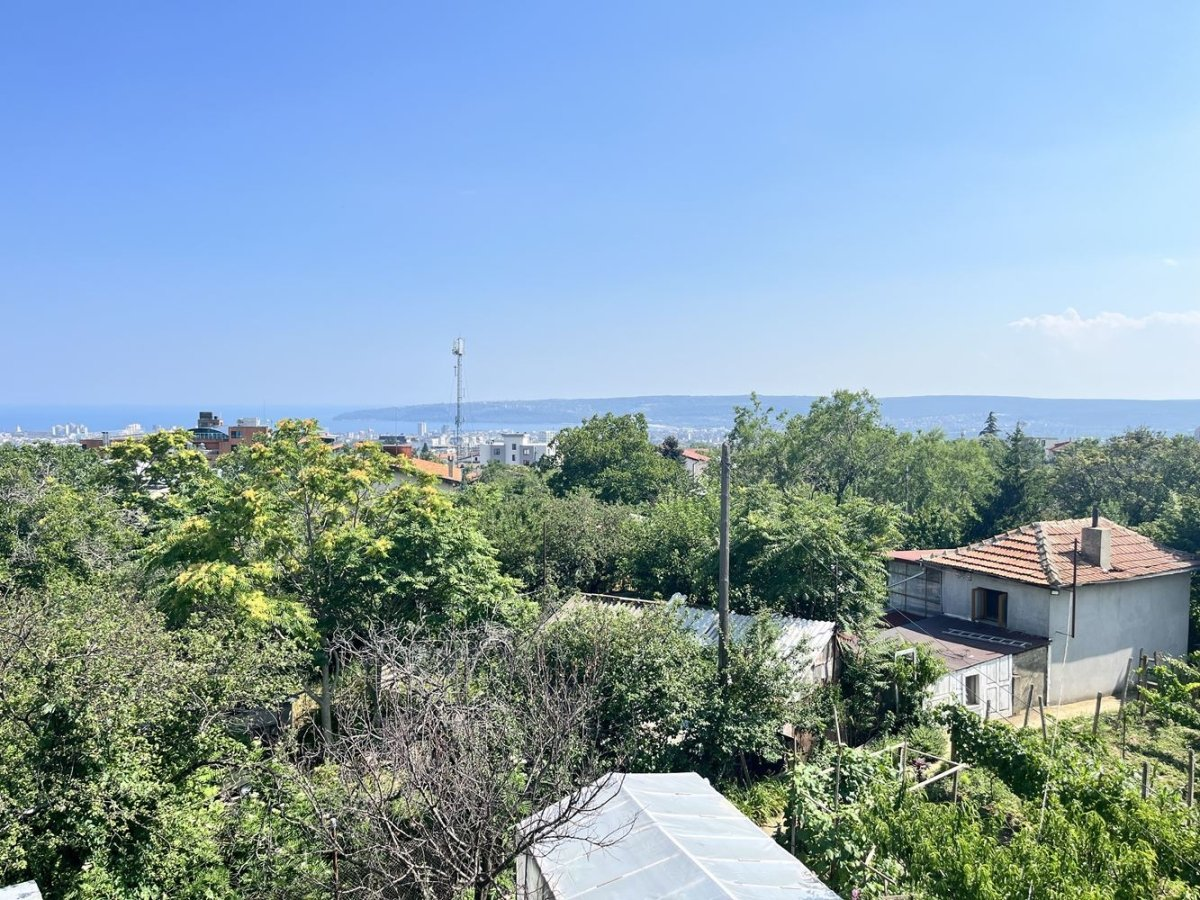
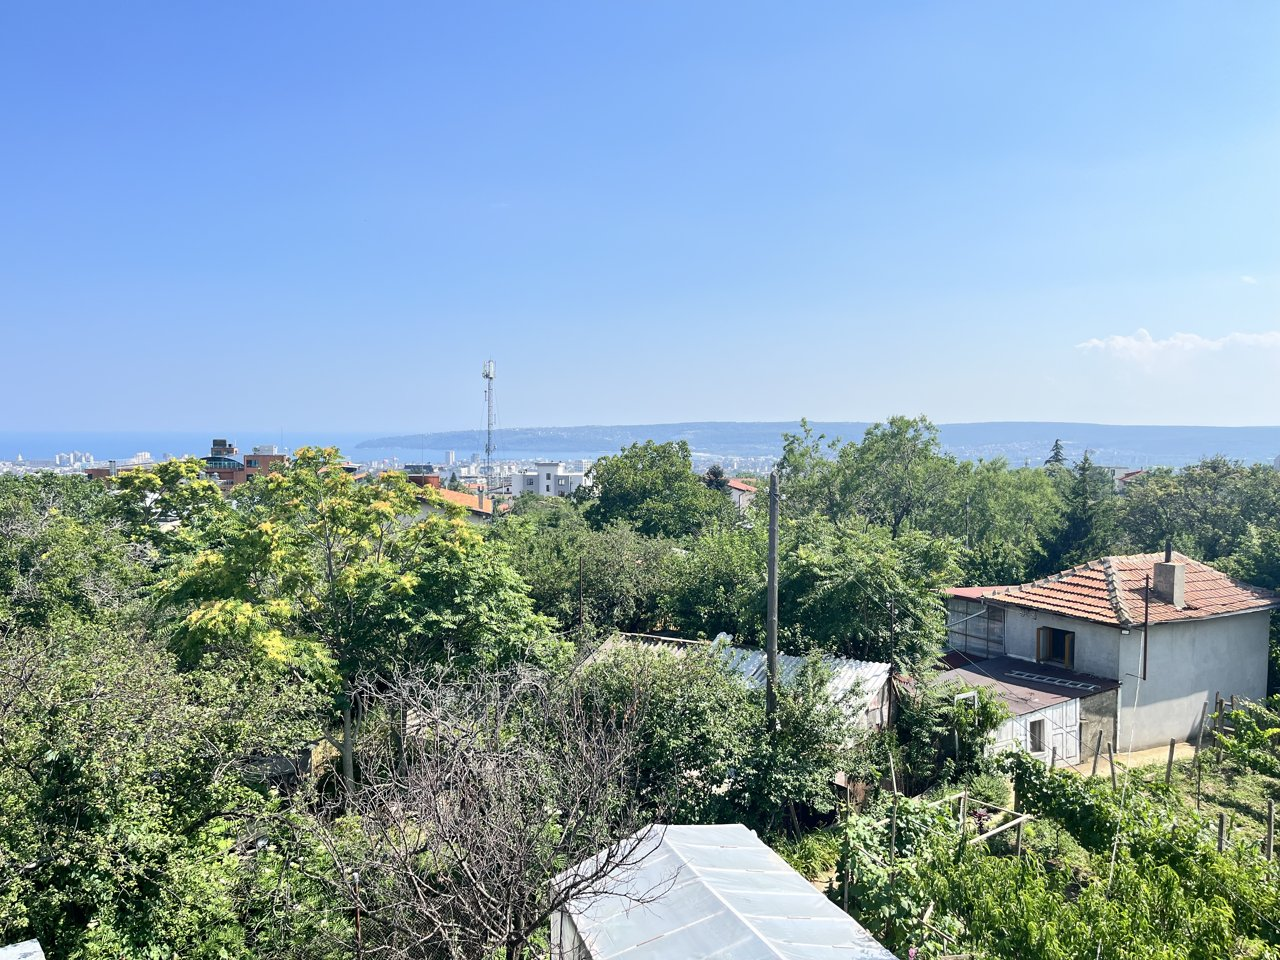
030: панорама от 2 етаж, достъп и бележка за регулацията, нови снимки
Claude-Session: https://claude.ai/code/session_018N8UPyfg8ybGvvNnksNaRx

diff --git a/index.html b/index.html
@@ -176,10 +176,10 @@ footer{color:var(--muted);font-size:12.5px;margin-top:28px}
 
 <script>
 const P=[
- {id:"p030",no:"030",photos:2,short:"Пчелина",kind:"plot",type:"Парцел с изглед към залива",rooms:"929 м²",place:"м-т Пчелина · до ул. „Прилеп“",area:"929 м²",price:"149 000 €",priceNote:"160 €/м²",status:"plot",
-  facts:[["Площ","929 м²"],["Статут","урегулиран поземлен имот"],["Кинт","1,1"],["Плътност","до 40%"],["РЗП","до около 1000 м²"],["Вода","в имота"],["Канализация","в имота"],["Ток","в имота"]],
-  pts:["Гледка към града и Варненския залив","Ток, вода и канализация – в имота","За семейна къща или малка жилищна сграда, близо до ул. „Прилеп“"],
-  note:null},
+ {id:"p030",no:"030",photos:3,short:"Пчелина",kind:"plot",type:"Парцел с панорама към залива",rooms:"929 м²",place:"м-т Пчелина · до ул. „Прилеп“",area:"929 м²",price:"149 000 €",priceNote:"160 €/м²",status:"plot",
+  facts:[["Площ","929 м²"],["Статут","урегулиран поземлен имот"],["Кинт","1,1"],["Плътност","до 40%"],["РЗП","до около 1000 м²"],["Гледка","към града и залива, от 2 етаж"],["Достъп","пътека 1 м, пътят предстои да се уреди"],["Вода","в имота"],["Канализация","в имота"],["Ток","в имота"]],
+  pts:["Панорама към града и Варненския залив от втори етаж","Ток, вода и канализация – в имота","За семейна къща или малка жилищна сграда"],
+  note:"Регулацията още не е приложена: сега до парцела води пътека, широка 1 м, а пътят предстои да се уреди. Преди решение провери с мен какво остава да се направи."},
  {id:"p029",no:"029",photos:6,short:"Бяла",kind:"apt",type:"Обзаведен двустаен в комплекс с басейни",rooms:"2 стаи",place:"гр. Бяла · до 350 м от плажа",area:"99 м²",price:"68 900 €",priceNote:"696 €/м²",status:"ready",
   facts:[["Застроена","67,75 м²"],["С общите части","99 м²"],["Балкон","Да, с градинска мебел"],["Изба","5 м²"],["Обзавеждане","Пълно, с техника"],["Баня","1, с тоалетна, подово отопление"],["Асансьор","Да"],["Строителство","Тухла, 2010"],["Комплекс","2 басейна, фитнес, паркинг"]],
   pts:["Напълно обзаведен и оборудван – влизаш и живееш","Затворен комплекс с два басейна, фитнес и безплатен паркинг","Покривна тераса с морска гледка в общите части"],

diff --git a/030/index.html b/030/index.html
@@ -3,13 +3,13 @@
 <head>
 <meta charset="utf-8">
 <meta name="viewport" content="width=device-width,initial-scale=1">
-<title>Парцел с изглед към залива · Пчелина</title>
+<title>Парцел с панорама към залива · Пчелина</title>
 <meta name="description" content="149 000 € · 929 м² · м-т Пчелина · до ул. „Прилеп“. Ник Капитанов, ЕРА Вива, 0878 760 894.">
 <link rel="canonical" href="https://n-kapitanov.github.io/properties/030/">
 <meta property="og:type" content="website">
 <meta property="og:site_name" content="Купи имот с Ник">
 <meta property="og:url" content="https://n-kapitanov.github.io/properties/030/">
-<meta property="og:title" content="Парцел с изглед към залива · Пчелина">
+<meta property="og:title" content="Парцел с панорама към залива · Пчелина">
 <meta property="og:description" content="149 000 € · 929 м² · м-т Пчелина · до ул. „Прилеп“. Ник Капитанов, ЕРА Вива, 0878 760 894.">
 <meta property="og:image" content="https://n-kapitanov.github.io/properties/images/030/og.jpg">
 <meta property="og:image:width" content="1200">
@@ -21,6 +21,6 @@
 <script>location.replace('../#p030');</script>
 </head>
 <body style="font-family:system-ui,sans-serif;padding:24px">
-<p><a href="../#p030">Парцел с изглед към залива · Пчелина</a></p>
+<p><a href="../#p030">Парцел с панорама към залива · Пчелина</a></p>
 </body>
 </html>
